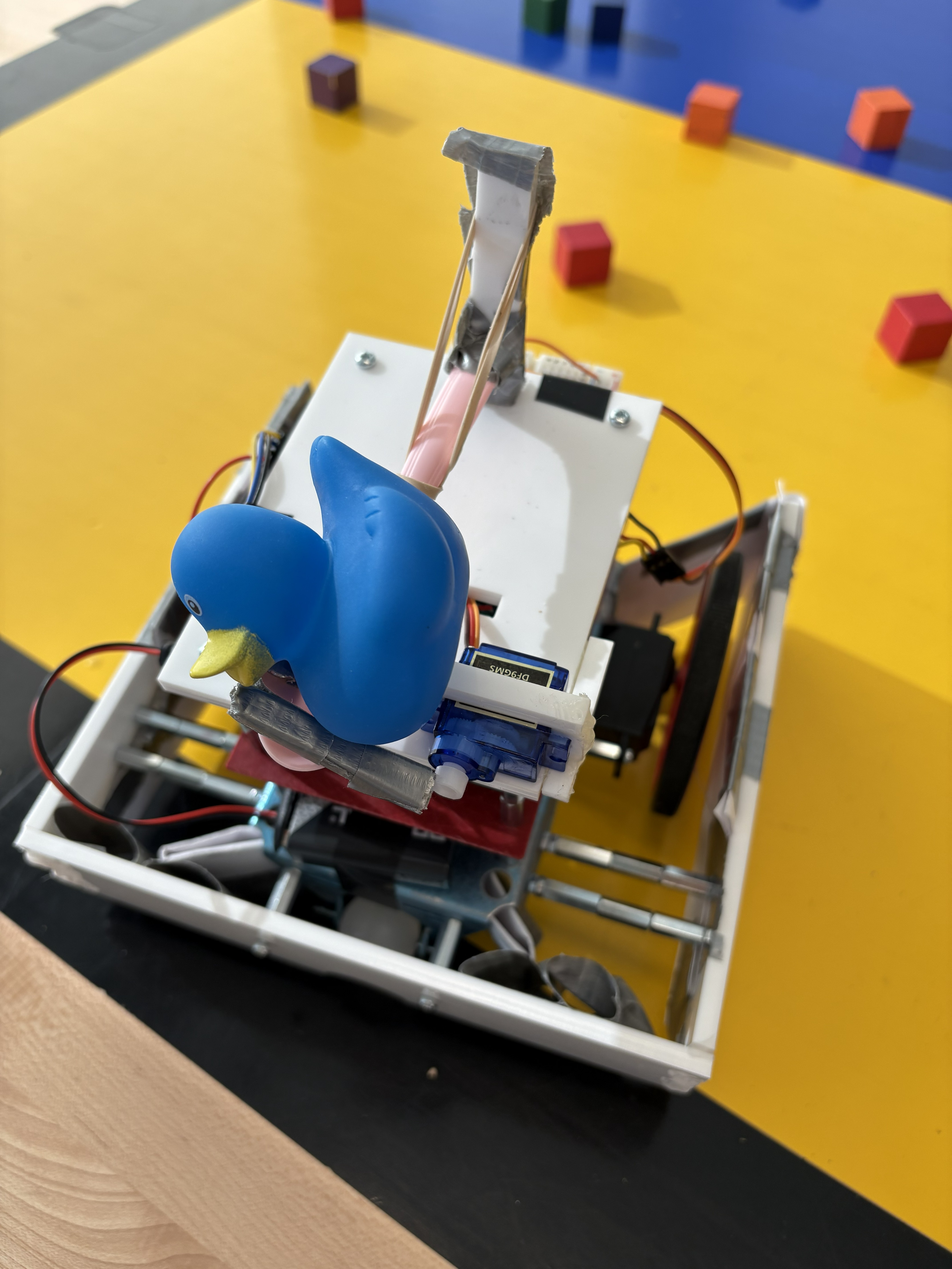
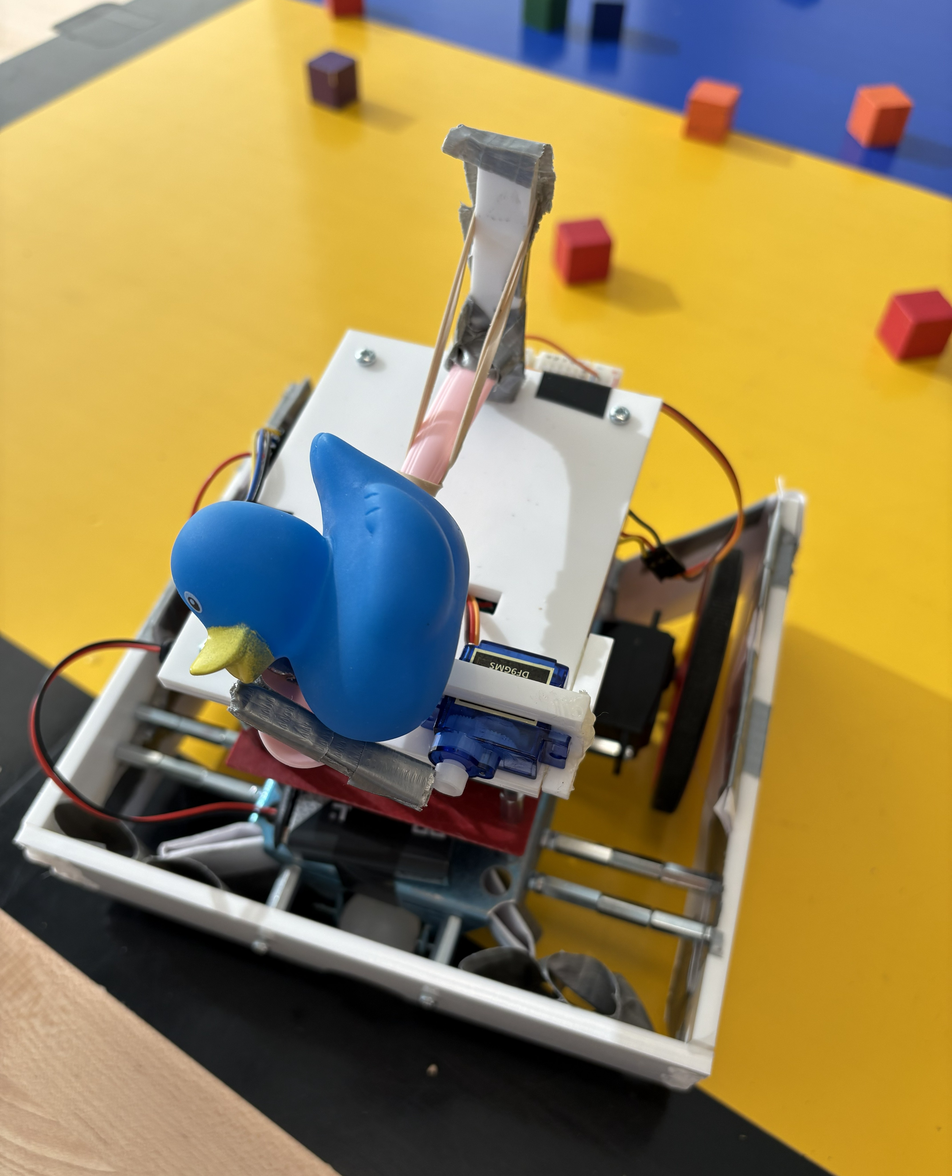
Create robot competition project

diff --git a/_projects/2026-robot-competition.md b/_projects/2026-robot-competition.md
@@ -1,0 +1,34 @@
+---
+layout: project
+title: Robot Competition 
+description: Reflection on a useful assignment in Heat Transfer
+technologies: [Fusion 360, Arduino IDE]
+image: /assets/images/robot-comp/duck-bot-2.jpg
+---
+
+The final project for MAE 3150 - Mechatronics was a competition where teams of three designed robots to compete against other teams. Given a robot chassis, an Arduino UNO, a few basic electronic components, and a $40 budget, we were tasked to design, fabricate, wire, and code using registers a robot. The robot's primary objective was to collect the most amount of cubes in an allotted time. 
+
+![Competition Board]({{ "/assets/images/robot-comp/robot-comp-board.jpg" | relative_url }}){: .inline-image-r style="width: 200px; "}
+
+<div style="clear: left"></div>
+
+**My role:** <br>
+In my team, my primary role was designing the physical part of the robot necessary to collect cubes. For cube collection, our team decided on a raised robot and simple outer perimeter design that would enclose the robot on three sides. We chose to laser cut all parts to keep costs low, so I designed the walls using Fusion 360 and laser cut them. I also designed a small platform for the breadboard to sit on that would allow all the electronics to sit stably in place that was composed of laser cut parts. 
+
+<div style="clear: both"></div>
+![Robot]({{ "/assets/images/robot-comp/duck-bot.png" | relative_url }}){: .inline-image-l style="width: 250px; margin-left: 12.5px; margin-right: 25px"}
+![Wall CAD assebmly]({{ "/assets/images/robot-comp/robot-walls-cad.png" | relative_url }}){: .inline-image-l style="width: 250px; margin-left: 0px; margin-right: 12.5px"}
+![Mount attached to boat]({{ "/assets/images/robot-comp/robot-platform-cad.png" | relative_url }}){: .inline-image-l style="width: 150px; margin-left: 0px; margin-right: 12.5px"}
+
+<div style="clear: left"></div>
+
+Along with our individual contributions, our team worked together to plan and test the mechanical, hardware, and software aspects of our robot, including testing and debugging code. 
+
+<div style="clear: both"></div>
+
+**My biggest takeaways:**<br>
+For me, this project was a very valuable teamwork experience, particularly due to the small number of people on the team and the diverse range of skills necessary to make the robot. I learned how important is it to have a diverse skillset on such projects to maximize efficiency and productivity, but also that those who are not necessarily the most experienced in some areas can still provide very meaningful ideas and contributions. Finally, this project went very smoothly since our team's goals and expectations aligned, allowing us to put in what we considered a reasonable amount of time and effort and got results we were all happy with.  
+
+This project was also a great opportunity to apply some of the concepts I learned in the Mechatronics course, particularly when debugging and brainstorming how to implement strategies.
+
+<div style="clear: both"></div>
